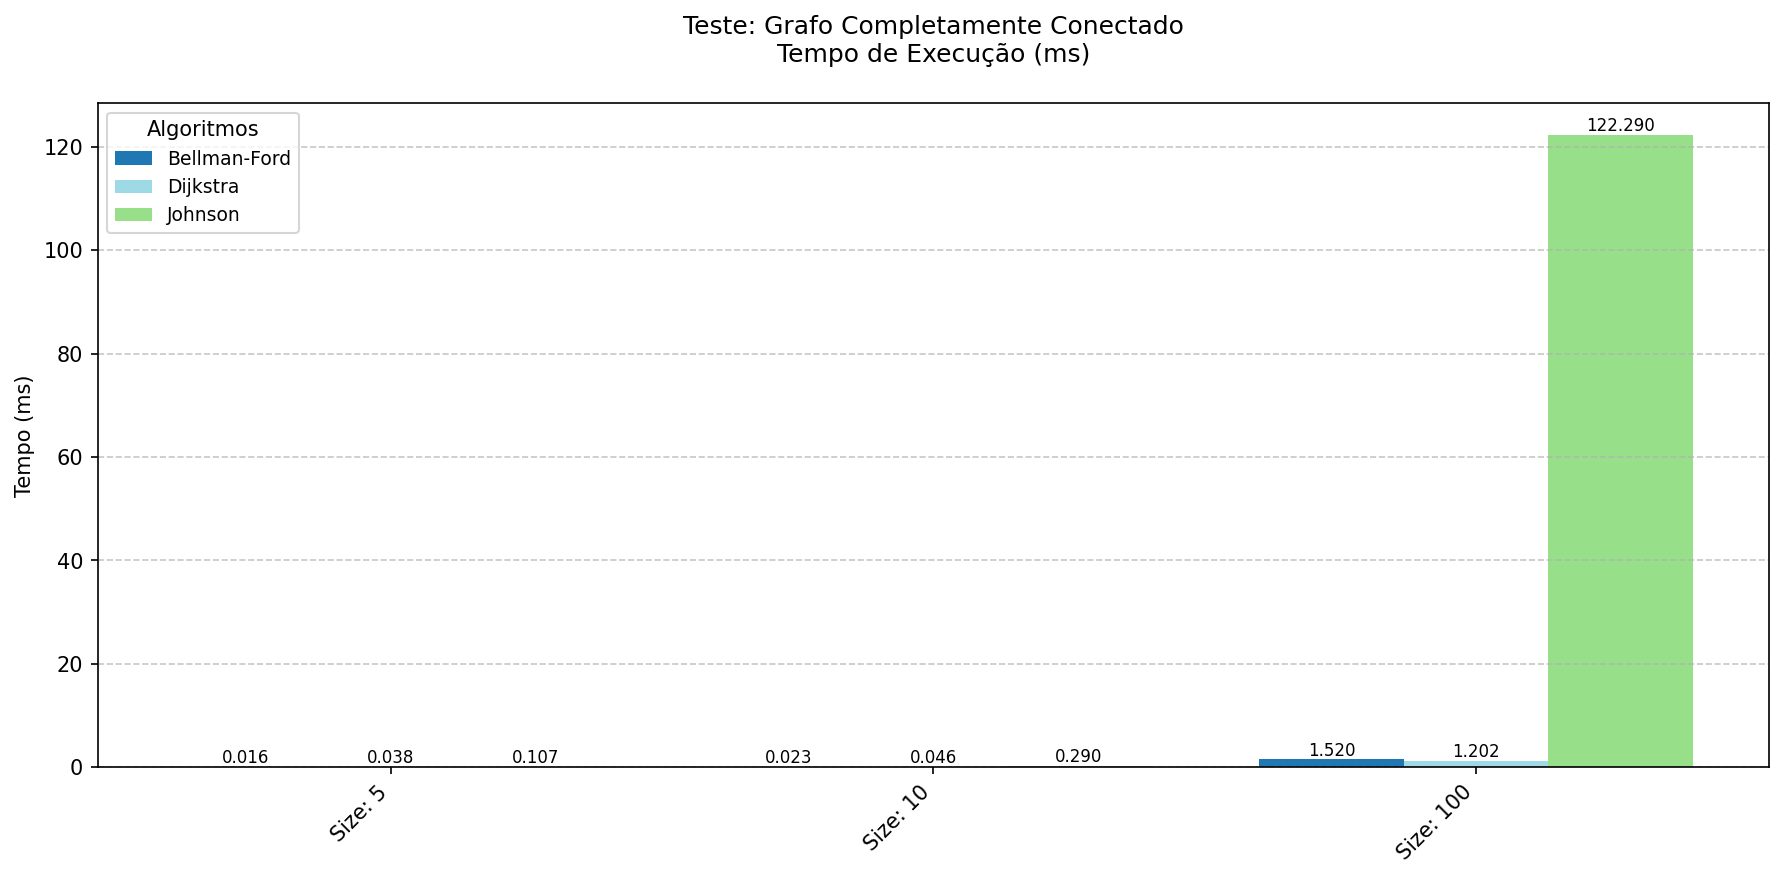
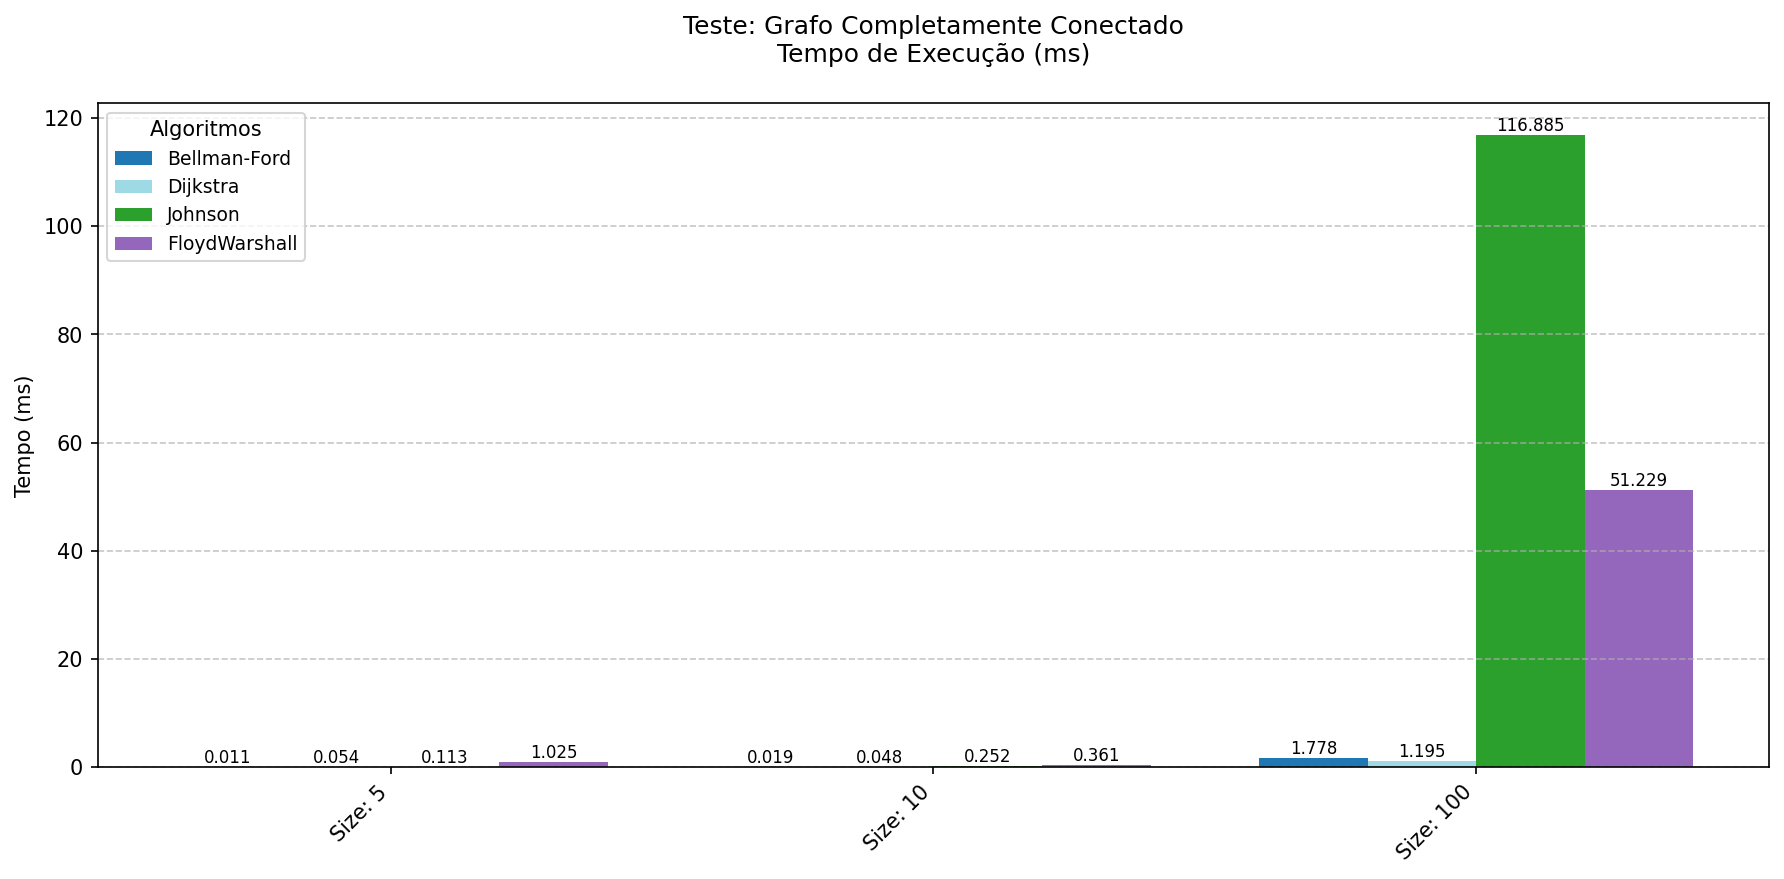
mais benchmarks

diff --git a/projeto/src/benchmark/ShortestPathBenchmark.java b/projeto/src/benchmark/ShortestPathBenchmark.java
@@ -20,61 +20,82 @@ public class ShortestPathBenchmark {
     public static void main(String[] args) {
         Locale.setDefault(Locale.US);
         int[] sizes = {5, 10, 100};
-        double[] densities = {0.3};
-        double[] negativeEdgeProbs = {0.3};
 
         try (PrintWriter writer = new PrintWriter(new FileWriter("data/benchmark_Shortest_path.csv"))) {
             writer.println("Titulo,Cenario,Algoritmo,Tempo(ms),Memoria(KB)");
 
-            String title = "Teste: Grafos com arestas negativas";
+
+            String title = "Teste: Grafo Direcionado com arestas negativas";
             System.out.println(title);
             for (int size : sizes) {
-                for (double density : densities) {
-                    for (double negProb : negativeEdgeProbs) {
-                        Graph randGraph = g.generateDirectedAdjMatrixNegativeEdges(size, INF, density, negProb, 50);
-                        runBenchmarkNegativeEdges(writer,title, size, density, negProb, randGraph);
-                    }
-                }
+                Graph randGraph = g.generateDirectedAdjMatrixNegativeEdges(size, INF, 0.5, 0.3, 50);
+                runBenchmarkNegativeEdges(writer,title, size, 0.4, 0.3, randGraph);
             }
 
+            title = "Teste: Dijkstra X Nearest Neighbor";
+            System.out.println(title);
+            for (int size : sizes) {
+                Graph randGraph = g.generateAdjMatrix(size, INF, 1.0);
+                runBenchmarkDijkstra(writer,title, size, 0.4, 0.3, randGraph);
+            }
 
             title = "Teste Comparação Bellman Ford: Matriz e Lista de Adjacência";
             System.out.println(title);
             for(int size : sizes){
-                double density = 0.5;
+                double density = 0.4;
                 double negProb = 0.2;
                 Graph adjMatrix = g.generateDirectedAdjMatrixNegativeEdges(size, INF, density, negProb, 50);
                 Graph adjListWeighted = g.generateAdjListWeighted(size, density, negProb, 50);
                 runBenchmarkBellman(writer, title, size, density, negProb, adjMatrix, adjListWeighted);
             }
 
-            title = "Teste: Grafo Completamente Conectado";
+            title = "Teste: Grafo Não-Direcionado Denso";
             System.out.println(title);
             for (int size : sizes) {
                 Graph completeGraph = g.generateAdjMatrix(size, INF, 1.0);
-                runBenchmark(writer,title, size, 1.0, 0, completeGraph);
+                runBenchmark(writer,title, size, 0.9, 0, completeGraph);
             }
 
-            title = "Teste: Grafo com Componentes Desconexos";
+            title = "Teste: Grafo Direcionado Denso";
             System.out.println(title);
             for (int size : sizes) {
-                Graph disconnectedGraph = g.generateAdjMatrix(size, INF, 0.05);
-                runBenchmark(writer,title, size, 0.05, 0, disconnectedGraph);
+                Graph completeGraph = g.generateDirectedAdjMatrix(size, INF, 1.0);
+                runBenchmark(writer,title, size, 0.9, 0, completeGraph);
             }
+
             title = "Teste: Grafo Direcionado Denso com Arestas Negativas";
             System.out.println(title);
             for (int size : sizes) {
                 double density = 0.9;
-                double negProb = 0.5;
+                double negProb = 0.4;
                 Graph graph = g.generateDirectedAdjMatrixNegativeEdges(size, INF, density, negProb, 20);
                 runBenchmarkNegativeEdges(writer,title, size, density, negProb, graph);
             }
-            title = "Teste: Grafo Muito Grande e Esparso";
+
+            title = "Teste: Grafo Direcionado Esparso com Arestas Negativas";
             System.out.println(title);
-            int size = 500;
-            double density = 0.01;
-            Graph graph = g.generateAdjMatrix(size, INF, density);
-            runBenchmark(writer, title, size, density, 0, graph);
+            for (int size : sizes) {
+                double density = 0.1;
+                double negProb = 0.4;
+                Graph graph = g.generateDirectedAdjMatrixNegativeEdges(size, INF, density, negProb, 20);
+                runBenchmarkNegativeEdges(writer,title, size, density, negProb, graph);
+            }
+
+            title = "Teste: Grafo Não-Direcionado Esparso";
+            System.out.println(title);
+            double density = 0.1;
+            for (int size: sizes) {
+                Graph graph = g.generateAdjMatrix(size, INF, density);
+                runBenchmark(writer, title, size, density, 0, graph);
+            }
+
+            title = "Teste: Grafo Direcionado Esparso";
+            System.out.println(title);
+            density = 0.1;
+            for (int size: sizes) {
+                Graph graph = g.generateDirectedAdjMatrix(size, INF, density);
+                runBenchmark(writer, title, size, density, 0, graph);
+            }
 
         } catch (IOException e) {
             e.printStackTrace();
@@ -257,6 +278,56 @@ public class ShortestPathBenchmark {
         writer.printf("\"%s\",\"%s\",FloydWarshall,%.3f,%d\n",title, cenario, totalTimeFloydWarshall, totalMemoryFloydWarshall);
         System.out.println();
     }
+    public static void runBenchmarkDijkstra(PrintWriter writer,String title, int size, double density, double negProb, Graph graph){
+        double totalTimeDij = 0;
+        double totalTimeNN = 0;
+        long totalMemoryDij = 0;
+        long totalMemoryNN = 0;
+
+
+        for (int j = 0; j < 30; j++) {
+            Runtime runtime = Runtime.getRuntime();
+            runtime.gc();
+            long memoryBeforeDij = runtime.totalMemory() - runtime.freeMemory();
+
+            long startTimeDij = System.nanoTime();
+            try {
+                dijkstra(graph, 0);
+            } catch (Exception e) {
+            }
+            long endTimeDij = System.nanoTime();
+            long memoryAfterBellmanFord = runtime.totalMemory() - runtime.freeMemory();
+            totalMemoryDij += (memoryAfterBellmanFord - memoryBeforeDij) / 1024;
+            totalTimeDij += (endTimeDij - startTimeDij) / 1e6;
+
+            runtime.gc();
+            long memoryBeforeNN= runtime.totalMemory() - runtime.freeMemory();
+            long startTimeNN = System.nanoTime();
+
+            try {
+                johnson(graph);
+            } catch (Exception e) {
+            }
+            long endTimeNN = System.nanoTime();
+            long memoryAfterNN = runtime.totalMemory() - runtime.freeMemory();
+            totalMemoryNN += (memoryAfterNN - memoryBeforeNN) / 1024;
+            totalTimeNN += (endTimeNN - startTimeNN) / 1e6;
+
+        }
+
+        totalTimeDij /= 30.0;
+        totalTimeNN /= 30.0;
+        totalMemoryDij /= 30.0;
+        totalMemoryNN /= 30.0;
+
+        String cenario = String.format("Size: %d", size);
+        System.out.println(cenario);
+        System.out.println("(Dijkstra) Time: " + totalTimeDij + " ms, Memory: " + totalMemoryDij + " KB");
+        System.out.println("(Nearest Neighbor) Time: " + totalTimeNN + " ms, Memory: " + totalMemoryNN + " KB");
+        writer.printf("\"%s\",\"%s\",Bellman-Ford,%.3f,%d\n",title, cenario, totalTimeDij,  totalMemoryDij);
+        writer.printf("\"%s\",\"%s\",Johnson,%.3f,%d\n",title, cenario, totalTimeNN, totalMemoryNN);
+        System.out.println();
+    }
 
     public static void runBenchmarkBellman(PrintWriter writer,String title, int size, double density, double negProb, Graph adjMatrix, Graph adjList) {
         double totalTimeAdjMatrix = 0;
@@ -298,7 +369,7 @@ public class ShortestPathBenchmark {
         totalMemoryAdjMatrix /= 30.0;
         totalMemoryAdjList /= 30.0;
 
-        String cenario = String.format("Size: %d", size, density, negProb);
+        String cenario = String.format("Size: %d", size);
         System.out.println(cenario);
         System.out.println("(Bellman-Ford: Adjacency Matrix) Time: " + totalTimeAdjMatrix + " ms, Memory: " + totalMemoryAdjMatrix + " KB");
         System.out.println("(Bellman-Ford: Adjacency List) Time: " + totalTimeAdjList + " ms, Memory: " + totalMemoryAdjList + " KB");

diff --git a/projeto/src/shortestPath/Dijkstra.java b/projeto/src/shortestPath/Dijkstra.java
@@ -12,14 +12,6 @@ public class Dijkstra {
         Map<Integer, Integer> dist = new HashMap<>(); 
         PriorityQueue<int[]> pq = new PriorityQueue<>(Comparator.comparingInt(a -> a[1]));
 
-        for (int i = 0; i < n; i++) {
-            for (int neighbor : graph.getAdj(i)) {
-                if (graph.getWeight(i, neighbor) < 0) {
-                    throw new IllegalArgumentException();
-                }
-            }
-        }
-
         // Inicializa as distâncias e a fila de prioridade
         for (int i = 0; i < n; i++) {
             dist.put(i, INF);
@@ -38,7 +30,7 @@ public class Dijkstra {
             for (int neighbor : graph.getAdj(node)) {
                 int weight = graph.getWeight(node, neighbor);
                 if (weight == INF) continue;
-                int newDist = currentDist + Math.abs(weight);
+                int newDist = currentDist + weight;
 
                 // Se encontramos um caminho mais curto, atualizamos a distância
                 if (newDist < dist.get(neighbor)) {
@@ -52,20 +44,6 @@ public class Dijkstra {
 
     public static void main(String[] args) {
 
-        // AdjList
-//        AdjList adjList = new AdjList(5);
-//        adjList.addEdge(0, 1, 10);
-//        adjList.addEdge(0, 2, 3);
-//        adjList.addEdge(1, 2, 1);
-//        adjList.addEdge(1, 3, 2);
-//        adjList.addEdge(2, 3, 8);
-//        adjList.addEdge(3, 4, 7);
-
-//        System.out.println("Shortest Paths from Node 0 (AdjList):");
-//        Map<Integer, Integer> distAdjList = dijkstra(adjList, 0);
-//        System.out.println(distAdjList);
-
-        // AdjMatrix
         int[][] adjMatrix = new int[5][5];
         for (int i = 0; i < 5; i++){
             Arrays.fill(adjMatrix[i], INF);

diff --git a/projeto/src/shortestPath/Johnson.java b/projeto/src/shortestPath/Johnson.java
@@ -59,37 +59,4 @@ public class Johnson {
 
         return distances;
     }
-
-
-    public static void main(String[] args) {
-        // Criando um grafo com 4 vértices
-        Graph graph = new AdjMatrix(4, INF);
-
-        Graph adj = new AdjMatrix(5, new int[][] {
-                {0, 3, 8, INF, -4},  // Arestas do vértice 0
-                {INF, 0, INF, 1, 7},  // Arestas do vértice 1
-                {INF, 4, 0, INF, INF}, // Arestas do vértice 2
-                {2, INF, -5, 0, INF},  // Arestas do vértice 3
-                {INF, INF, INF, 6, 0}  // Arestas do vértice 4
-        });
-
-        Graph graph1 = new AdjMatrix(4, new int[][] {
-                {0, -4, 2, INF},  // Arestas do vértice 0
-                {INF, 0, 5, INF}, // Arestas do vértice 1
-                {INF, INF, 0, -3}, // Arestas do vértice 2
-                {INF, INF, INF, 0} // Arestas do vértice 3
-        });
-
-        Graph graph3 = new AdjMatrix(5, new int[][] {
-                {0, 6, INF, 7, INF},  // Arestas do vértice 0
-                {INF, 0, 5, 8, -4},   // Arestas do vértice 1
-                {INF, -2, 0, INF, INF}, // Arestas do vértice 2
-                {INF, INF, -3, 0, 9},  // Arestas do vértice 3
-                {2, INF, INF, INF, 0}  // Arestas do vértice 4
-        });
-
-        Johnson johnson = new Johnson();
-
-        johnson.johnson(graph3);
-    }
 }
